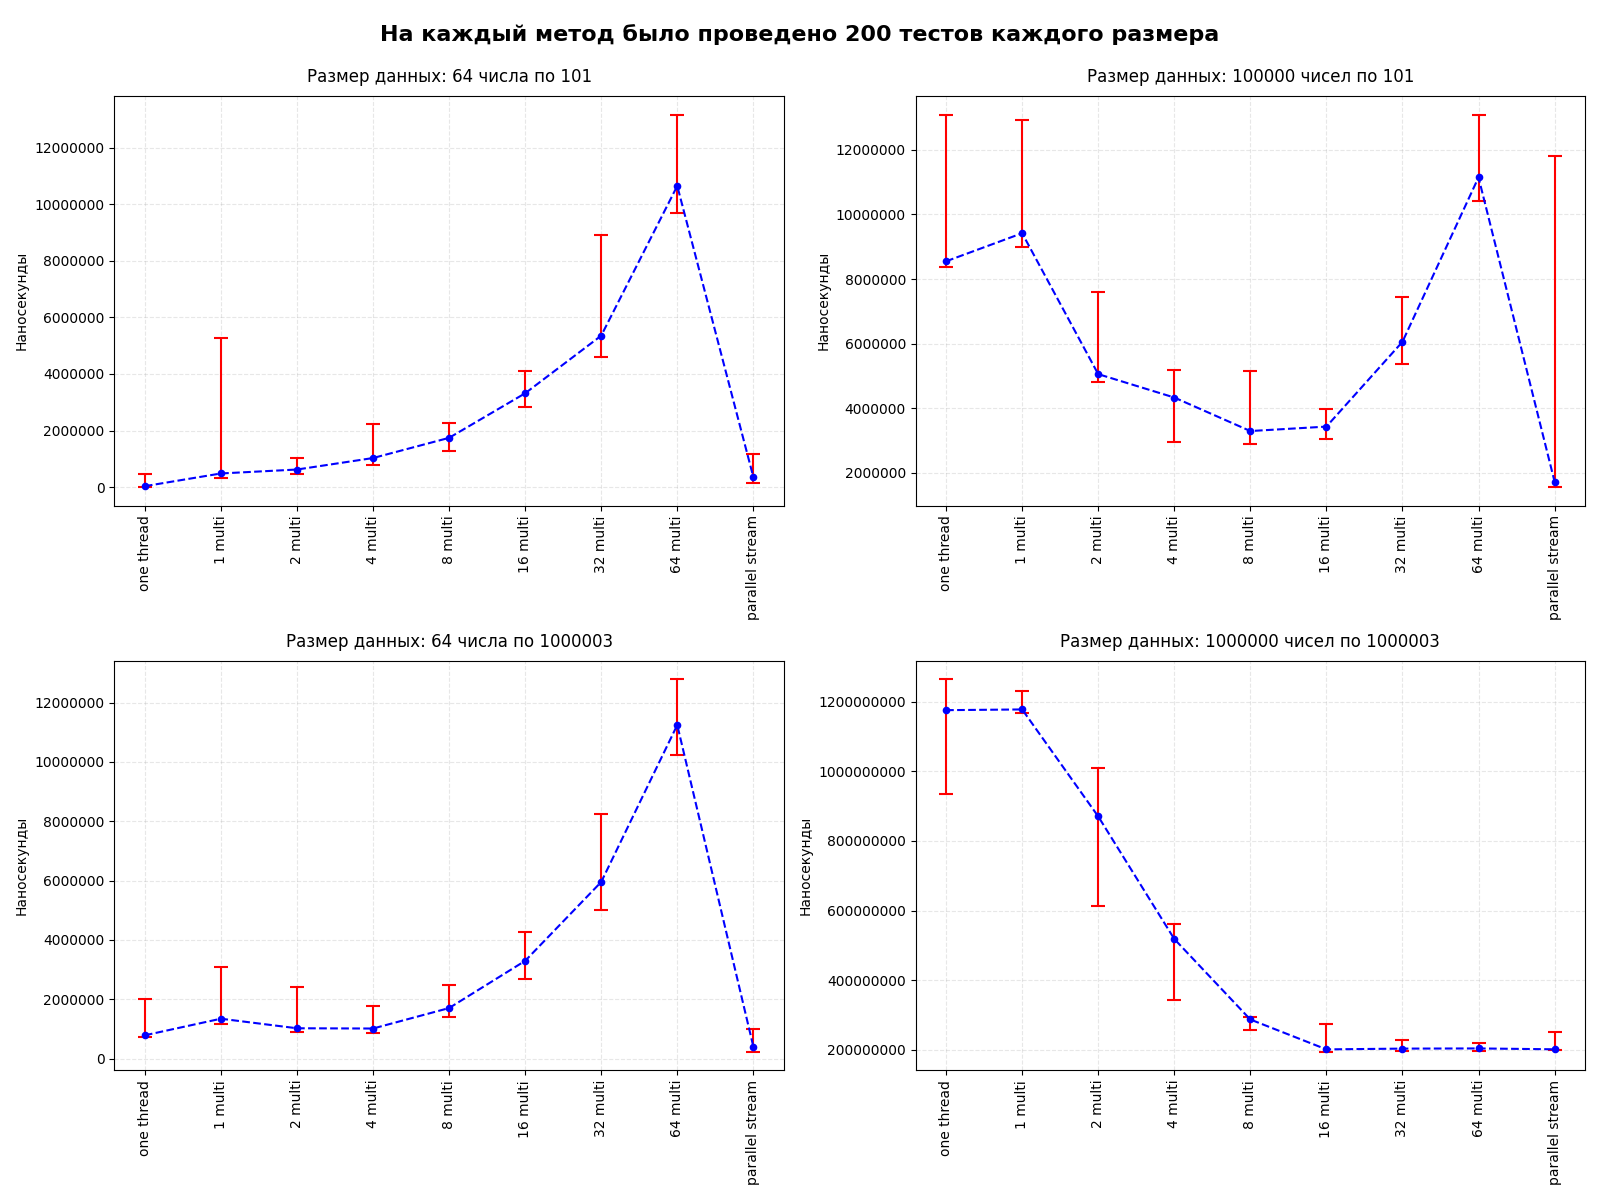
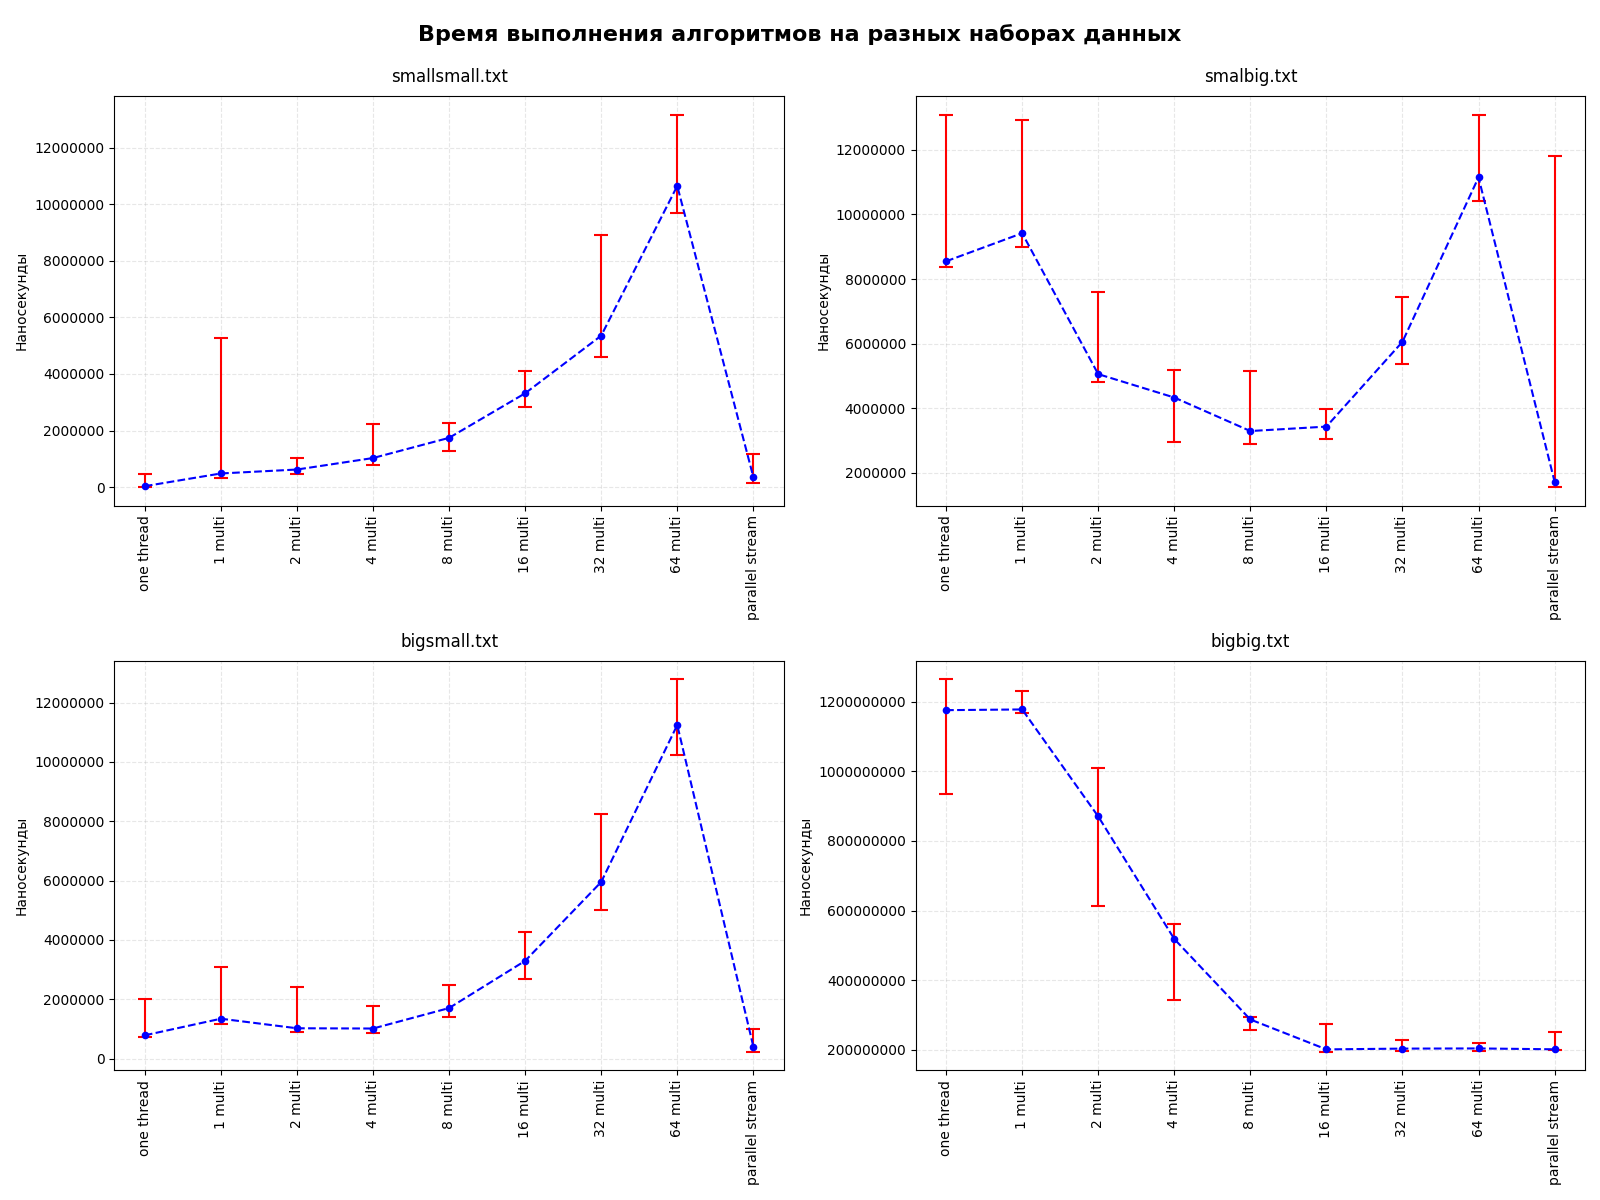
make readdme and remake test's results

Changed region(s): [[0.1875, 0.0, 0.8438, 0.0925], [0.6562, 0.5242, 0.9062, 0.555], [0.1875, 0.5242, 0.375, 0.555]]

diff --git a/Task_2_1_1/src/main/java/ru/nsu/tokarev4/SimpleNumbers.java b/Task_2_1_1/src/main/java/ru/nsu/tokarev4/SimpleNumbers.java
@@ -47,8 +47,8 @@ public class SimpleNumbers {
             }
 
             // --- 1. ОДИН ПОТОК ---
-            long[] oneline = new long[200];
-            for (int i  = 0; i < 200; i++) {
+            long[] oneline = new long[500];
+            for (int i  = 0; i < 500; i++) {
                 long startline = System.nanoTime();
                 boolean line = Sequential.oneLine(numbers);
                 long endline = System.nanoTime();
@@ -59,8 +59,8 @@ public class SimpleNumbers {
             // --- 2. МНОГОПОТОЧНОСТЬ ---
             int[] treadcnt = {1, 2, 4, 8, 16, 32, 64};
             for (int i : treadcnt) {
-                long[] multitest = new long[200];
-                for (int j = 0; j < 200; j++) {
+                long[] multitest = new long[500];
+                for (int j = 0; j < 500; j++) {
                     long start = System.nanoTime();
                     boolean multi = MultiThreads.multiThreads(i, numbers);
                     long end = System.nanoTime();
@@ -70,8 +70,8 @@ public class SimpleNumbers {
             }
 
             // --- 3. PARALLEL STREAM ---
-            long[] paral = new long[200];
-            for (int i = 0; i < 200; i++) {
+            long[] paral = new long[500];
+            for (int i = 0; i < 500; i++) {
                 long paralstart = System.nanoTime();
                 boolean paralel = ParallelStream.paralelStream(numbers);
                 long paralend = System.nanoTime();

diff --git a/Task_2_1_1/README.md b/Task_2_1_1/README.md
@@ -1,0 +1,35 @@
+#### Задача
+В данной задаче реализованы 3 алгоритма
+поиска составного числа в массиве простых чисел.
+
+Алгоритм получает на вход массив чисел и выдает
+в качестве резальтата true - если составное число
+найдено, иначе false
+
+(а) seq    -
+(б) thread -
+(в) stream -
+
+#### Исследование скорости поиска
+Проведено исследование скорости работы этих алгоритмов.
+Для этого были сгенерированы 4 набора чисел:
+1. smallsmall - массив длины 64 состоящий из чисел 101
+2. smallbig - массив длины 100 000 состоящий из чисел 101
+3. bigsmall - массив длины 64 состоящий из чисел 1000003
+4. long-large - массив длины 100 000 состоящий из чисел 1000003
+
+#### Исследование
+Произведено измерение скорости работы каждого алгоритма
+на каждом наборе данных. Для этого мы запустили алгоритм
+N раз и вычислили среднее время работы алгоритма `avg`, откинули аномально 
+большое время выполнения которое приходилось на прогрев и первые запуски. 
+N было подобрано так, настолько большим, чтобы среднее и доверительный интервал
+были корректными.
+
+Результаты исследования скорости работы алгоритмов представлены
+на следующем рисунке.
+![Task_2_1_1.png](Task_2_1_1.png) - граф с 500 запусками. 
+
+По оси Y отложено время выполнения в наносекундах.
+
+По оси X - алгоритм последовательный, параллельный с указанием количества потоков и parallel stream.